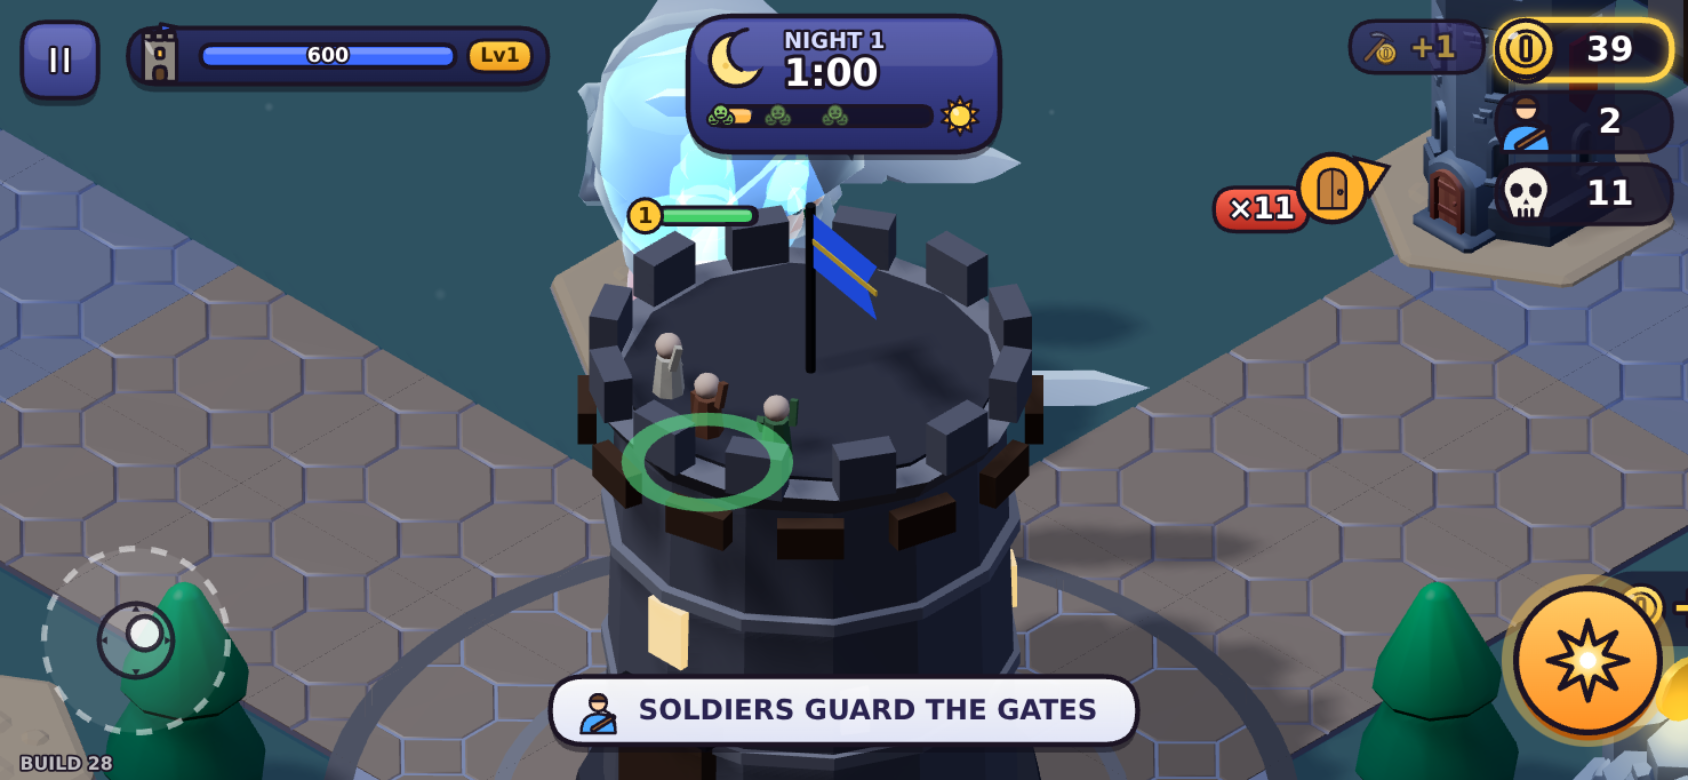
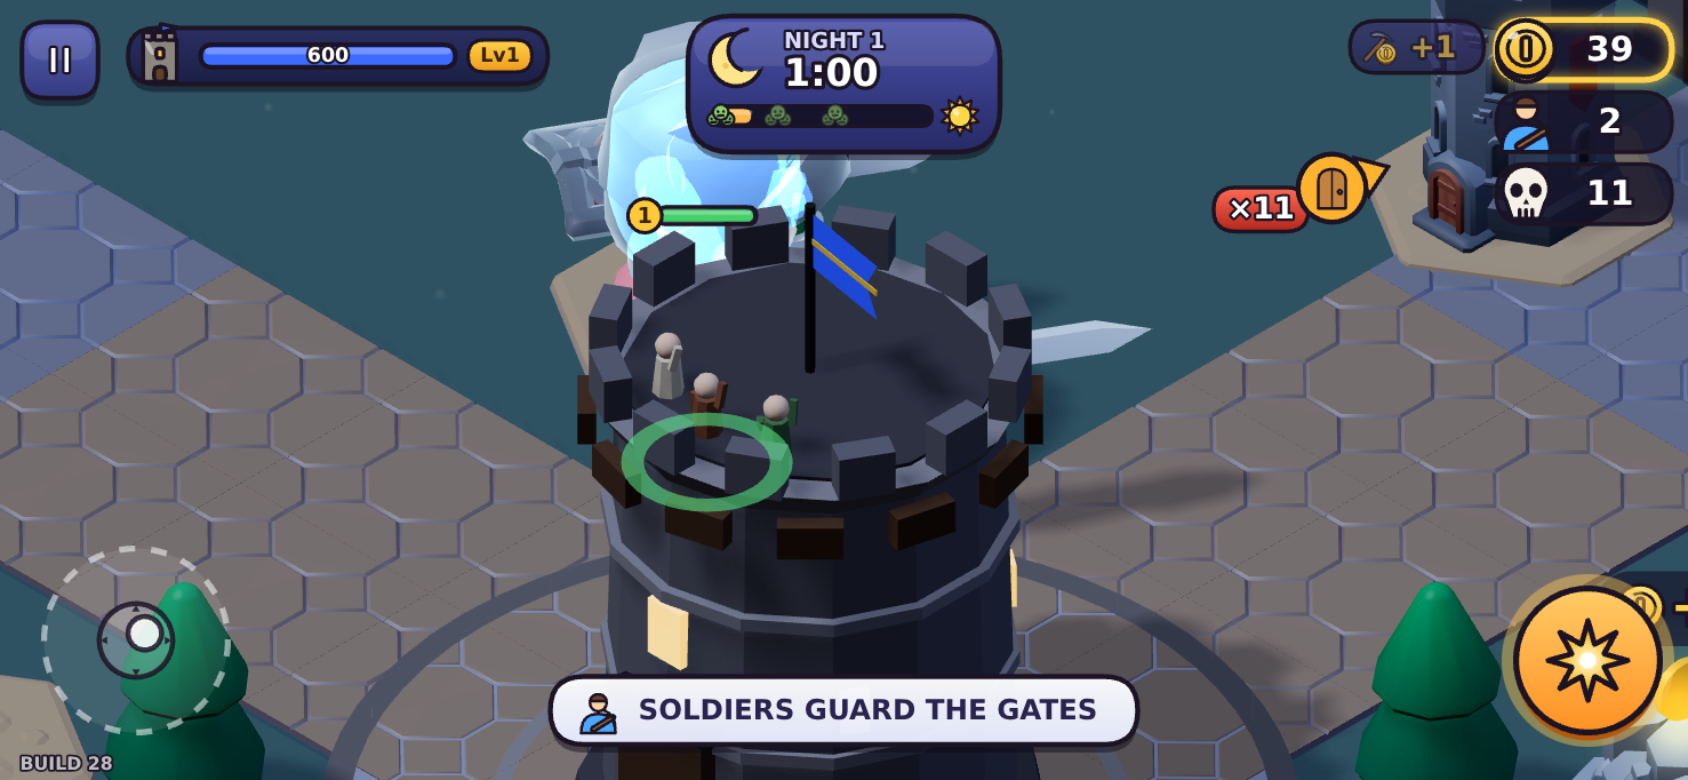
BUILD 28 round-3 user feedback: cast scale 0.70, rim/glow/eye malam horde dinaikkan, overlay ?diag=1 + self-report HORDE FALLBACK di runtime apa pun

diff --git a/src/ui/survival/controls.js b/src/ui/survival/controls.js
@@ -4,6 +4,8 @@ import { clamp } from '../../core/util.js';
 import { SURVIVAL_CAMERA } from '../../game/sim/survival.js';
 import { drawSurvivalIcon, drawLabel, drawPanel, INK } from '../survivalIcons.js';
 import { TAU, clock, addHit, BUTTON_COLORS, zoomButtonLayout, recenterChipBox } from './shared.js';
+import { EnvKit } from '../../game/render3d/envkit.js';
+import { Crowd3D } from '../../game/render3d/crowd3d.js';
 
 export function drawZoomButtons(game, ctx, w, h) {
   // build 28 (user 2026-10-23: "hapus _+ zoom icon pada game"): the on-screen
@@ -132,3 +134,36 @@ export function drawSurvivalControls(game, ctx, w, h) {
 /* entry                                                               */
 /* ------------------------------------------------------------------ */
 
+
+/**
+ * build 28 device probe: open the game with ?diag=1 and a small monospace
+ * panel reports the build stamp, the GL capabilities that gate the VAT horde
+ * (WebGL2 / half-float vertex textures / max texture size), the crowd bake
+ * verdict and the per-kind drawn counts — the exact facts a device screenshot
+ * needs when the horde ever reads as shadows again.
+ */
+export function drawDiagnostics(game, ctx, w, h) {
+  const forced = typeof location !== 'undefined' && /[?&]diag=1/.test(location.search);
+  // self-report: a night whose horde could not bake tells the player (and the
+  // bug report) why, on any runtime — APK included — without a query string
+  const hordeDown = !!(game && game.survival && game.survival.phase === 'night') && !Crowd3D.ready;
+  if (!forced && !hordeDown) return;
+  const rend = EnvKit && EnvKit.renderer;
+  const caps = rend && rend.capabilities;
+  const half = rend ? !!(rend.extensions.get('OES_texture_half_float') && rend.extensions.get('OES_texture_half_float_linear')) : false;
+  const counts = Crowd3D.keys().map((k) => { const kind = Crowd3D.kinds.get(k); return `${k}:${kind ? kind.count : '-'}`; }).join(' ');
+  const rows = hordeDown && !forced
+    ? [`HORDE FALLBACK: ${Crowd3D.lastError || 'bake pending'}`, `stamp ${typeof window !== 'undefined' ? window.DUSKHOLD_BUILD : '?'} gl2 ${caps ? caps.isWebGL2 : '?'} half ${half}`]
+    : [
+    `stamp ${typeof window !== 'undefined' ? window.DUSKHOLD_BUILD : '?'} dpr ${typeof devicePixelRatio !== 'undefined' ? devicePixelRatio : '?'}`,
+    `gl2 ${caps ? caps.isWebGL2 : '?'} half ${half} maxTex ${caps ? caps.maxTextureSize : '?'}`,
+    `crowd ${Crowd3D.ready ? 'ready' : 'NOT-READY'} bake ${Math.round(Crowd3D.bakeMs)}ms err ${Crowd3D.lastError || '-'}`,
+    `drawn ${counts}`,
+    ];
+  ctx.save();
+  ctx.font = '12px monospace'; ctx.textAlign = 'left'; ctx.textBaseline = 'top';
+  ctx.fillStyle = 'rgba(0,0,0,0.68)'; ctx.fillRect(8, 64, 380, rows.length * 16 + 10);
+  ctx.fillStyle = '#9dffb0';
+  rows.forEach((row, i) => ctx.fillText(row, 14, 70 + i * 16));
+  ctx.restore();
+}

diff --git a/src/ui/survival/day.js b/src/ui/survival/day.js
@@ -6,7 +6,7 @@ import { drawSurvivalIcon, drawLabel, measureLabel, drawPanel, drawBar, roundRec
 import { TAU, clock, project, addHit, affordable, onScreen, edgeAvoid, drawEdgeMarker, drawFloaters, drawHunterBar, drawStatusPill, statusPillWidth, drawCounters, drawPauseButton, drawButton, costRow, costWidth, BUTTON_COLORS, zoomButtonLayout, tonightChipBox, BUILD } from './shared.js';
 import { offerSurvivalHint, drawHint } from './hints.js';
 import { drawPhasePill, drawObjectiveChain } from './chain.js';
-import { drawZoomButtons, drawRecenterChip } from './controls.js';
+import { drawZoomButtons, drawRecenterChip, drawDiagnostics } from './controls.js';
 
 // color: each type's own colour (BUILD 11, playtest 2026-10-17: "tidak tau
 // build yg mana") — the same as its kit model's roof and its circle on the
@@ -789,6 +789,7 @@ export function drawDayScreen(game, ctx, w, h) {
   if (game._survivalLabels) game._survivalLabels.objectiveChain = dayChain;
 
   drawZoomButtons(game, ctx, w, h);
+  drawDiagnostics(game, ctx, w, h);
   drawRecenterChip(game, ctx, w, h);
   // FTUE chip: a sideways phone puts it at the foot of the screen between the
   // stick and the dock (the top band shows the keep); a tall screen under

diff --git a/src/ui/survival/night.js b/src/ui/survival/night.js
@@ -7,7 +7,7 @@ import { drawSurvivalIcon, drawLabel, measureLabel, drawPanel, drawBar, INK, COL
 import { TAU, clock, project, onScreen, edgeAvoid, nightPointerBand, drawEdgeMarker, drawFloaters, drawHunterBar, drawStatusPill, drawCounters, drawPauseButton, ACTOR, BUILD } from './shared.js';
 import { drawPhasePill, drawObjectiveChain } from './chain.js';
 import { drawHint } from './hints.js';
-import { drawZoomButtons, drawRecenterChip } from './controls.js';
+import { drawZoomButtons, drawRecenterChip, drawDiagnostics } from './controls.js';
 
 /**
  * The keep's life, under the night pill: the most important bar on screen.
@@ -253,6 +253,7 @@ export function drawNightHud(game, ctx, w, h) {
   else drawKeepBar(game, ctx, w / 2, 82, Math.min(220, w - 220));
   drawBanner(game, ctx, w, h);
   drawZoomButtons(game, ctx, w, h);
+  drawDiagnostics(game, ctx, w, h);
   drawRecenterChip(game, ctx, w, h);
   // BUILD 22: the chain keeps teaching through the night it asks you to hold
   const nightChain = drawObjectiveChain(game, ctx, w, h, true);

diff --git a/src/game/render3d/crowd3d.js b/src/game/render3d/crowd3d.js
@@ -325,9 +325,9 @@ class CrowdStage {
 
   /** Night: a strong rim and a lift; day: a light touch (world3d, per frame). */
   setLook(night) {
-    this.look.rim.value = night ? 0.6 : 0.28;
-    this.look.glow.value = night ? 0.3 : 0.12;
-    for (const mul of this._eyeMuls) mul.value = night ? 1.15 : 0.6;
+    this.look.rim.value = night ? 0.85 : 0.28;
+    this.look.glow.value = night ? 0.42 : 0.12;
+    for (const mul of this._eyeMuls) mul.value = night ? 1.35 : 0.6;
   }
 
   /** True once the leading kind has its texture: the horde can be drawn. */

diff --git a/src/game/render3d/envkit.js b/src/game/render3d/envkit.js
@@ -77,7 +77,7 @@ export { SURVIVAL_ACTOR_SCALE } from '../../core/config.js';
  *  the retired slim packs reads roughly a third bulkier in the bailey. Every
  *  cast height (captain, garrison, horde) is multiplied by this so the visual
  *  mass, not the metre stick, matches what BUILD 27 tuned. */
-export const KAYKIT_CAST_SCALE = 0.75;
+export const KAYKIT_CAST_SCALE = 0.7;
 
 /**
  * WHAT EVERYTHING IS, IN METRES.
